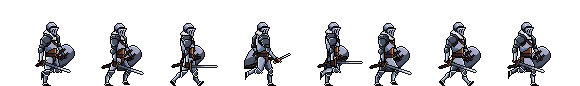
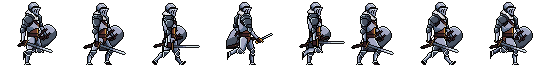
Idling + Walking + rotate - walk.

diff --git a/Bob.cpp b/Bob.cpp
@@ -1,18 +1,19 @@
 #include "Bob.h"
+
+#include <iostream>
+
 #include "TextureCache.h"
 
 
 Bob::Bob()
 {
+	m_IdleTexture = TextureCache::GetTexture("graphics/knight/idle.png");
+	m_WalkingTexture = TextureCache::GetTexture("graphics/knight/walk.png");
+	m_AttackingTexture = TextureCache::GetTexture("graphics/knight/attack_1.png");
+
 	// Associate a texture with the sprite
-	m_Sprite = Sprite(TextureCache::GetTexture(
-		"graphics/knight/walk2.png"));
-
-	m_WalkingSprite = Sprite(TextureCache::GetTexture(
-		"graphics/knight/walk2.png"));
-
-	
-	//m_Sprite.setTextureRect(sf::IntRect(left, bottom, right, top));
+	m_Sprite = Sprite();
+	m_Sprite.setTexture(m_IdleTexture);
 
 	m_JumpDuration = .25;
 
@@ -51,12 +52,13 @@ bool Bob::HandleInput()
 	{
 		m_IsIdle = false;
 		m_LeftPressed = true;
-
+		m_Sprite.setTexture(m_WalkingTexture);
 	}
 	else
 	{
 		m_IsIdle = true;
 		m_LeftPressed = false;
+		m_Sprite.setTexture(m_IdleTexture);
 	}
 
 
@@ -64,11 +66,13 @@ bool Bob::HandleInput()
 	{
 		m_IsIdle = false;
 		m_RightPressed = true;
+		m_Sprite.setTexture(m_WalkingTexture);
 	}
 	else
 	{
 		m_IsIdle = true;
 		m_RightPressed = false;
+		m_Sprite.setTexture(m_IdleTexture);
 	}
 
 	if (m_RightPressed)
@@ -84,9 +88,10 @@ bool Bob::HandleInput()
 	
 	if (m_IsIdle)
 	{
+		std::cout << "Idling" << std::endl;
 
 		// Animate idle
-		m_Sprite.setTextureRect(sf::IntRect(70, bottom, 70, top));
+		m_Sprite.setTextureRect(sf::IntRect(70, bottom+20, 70, top));
 	}
 
 	else

diff --git a/PlayableCharacter.h b/PlayableCharacter.h
@@ -9,12 +9,13 @@ protected:
 	bool m_IsIdle = true;
 
 	const int left = 0;
-	const int bottom = -20;
+	const int bottom = 20;
 	const int right = 75;
 	const int top = 86;
 
 	const int idle_Frames = 4;
 	const int walking_Frames = 6;
+	const int attacking_Frames = 5;
 
 	sf::Clock m_IdleClock;
 
@@ -25,7 +26,17 @@ protected:
 	// Of course we will need a sprite
 	Sprite m_Sprite;
 
-	Sprite m_WalkingSprite;
+	Texture m_IdleTexture;
+
+	Texture m_WalkingTexture;
+
+	Texture m_JumpingTexture;
+
+	Texture m_FallingTexture;
+
+	Texture m_AttackingTexture;
+
+	Texture m_DeadTexture;
 
 	// How long does a jump last
 	float m_JumpDuration = 0;
